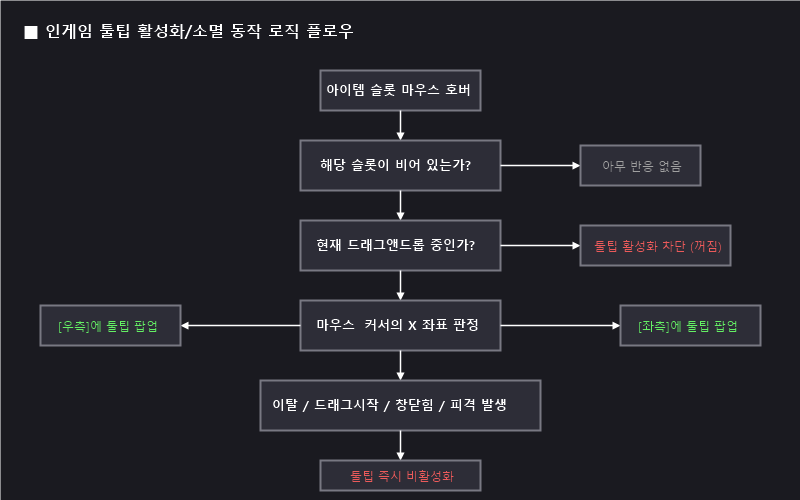
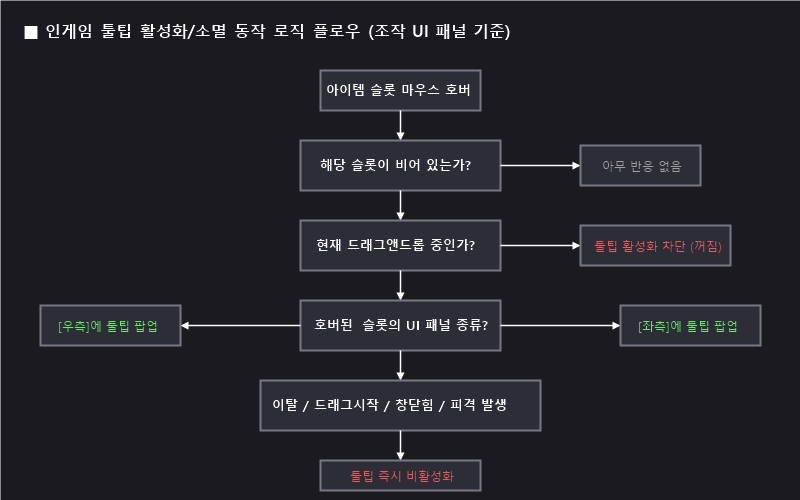
정보 툴팁 기획 업데이트

Changed region(s): [[0.125, 0.03, 0.625, 0.09], [0.375, 0.63, 0.625, 0.66]]

diff --git a/LucidDiver_Document/02_개발_전달용/P0.5_기획_명세서/P0.5_UI_아이템 상세 정보 툴팁 기획_v1.0.0.md b/LucidDiver_Document/02_개발_전달용/P0.5_기획_명세서/P0.5_UI_아이템 상세 정보 툴팁 기획_v1.0.0.md
@@ -30,17 +30,15 @@
    - 폰트 스타일: Bold
    - 폰트 크기: 16
    - 텍스트 컬러: 아이템 등급별 고유 색상 적용 (2.2절 참조).
-3. **아이템 등급 뱃지 (`Badge_ItemGrade`)**:
-   - 우측 상단 배치. 등급 텍스트와 등급별 뱃지 배경 이미지의 조합으로 구성.
-4. **효과 설명 (`Text_ItemEffect`)**:
+3. **효과 설명 (`Text_ItemEffect`)**:
    - 스탯 상승치 및 특수 능력을 가독성 높은 폰트(예: KoPubWorld돋움)로 기술.
    - 예: `장착 시 HP 자연 회복량이 초당 +2.0 증가합니다.` (긍정 효과는 녹색 계열 `#80FF80`로 수치 강조).
-5. **플레이버 텍스트 (`Text_FlavorText`)**:
+4. **플레이버 텍스트 (`Text_FlavorText`)**:
    - 아이템의 설정과 스토리를 보여주는 텍스트.
    - 폰트 스타일: Italic
    - 폰트 크기: 12
    - 텍스트 컬러: `#9C9C9C` (중간 회색)
-6. **상점 가치 및 중첩 정보 (`Text_ItemMetadata`)**:
+5. **상점 가치 및 중첩 정보 (`Text_ItemMetadata`)**:
    - 상점 판매 시 획득 가능한 골드와 최대 중첩 한도를 표시.
    - 예: `상점 판매 가치: 500 G` / `최대 중첩: 1개`
 
@@ -115,13 +113,14 @@
 ---
 
 ## 3.2 툴팁의 동적 겹침 방지 (스마트 배치)
-화면 크기 대비 UI 창이 크게 설계되어 있으므로 마우스 포인터 기준 툴팁 배치 방향을 지능적으로 제어한다.
+화면 크기 대비 UI 패널들이 차지하는 면적이 넓으므로, 호버링이 발생한 슬롯이 소속된 **UI 패널의 종류(Type)**에 따라 툴팁의 기준 방향과 오프셋을 사전에 약속된 프리셋(Preset)으로 지정한다.
 
-- **마우스 커서의 X 좌표 < Screen.width * 0.5 (화면 좌측 인벤토리 영역)**:
-  - 툴팁은 마우스 커서 기준 **우측**에 뜬다 (피벗: 우측 상단 또는 우측 하단).
-- **마우스 커서의 X 좌표 >= Screen.width * 0.5 (화면 우측 상자 영역)**:
-  - 툴팁은 마우스 커서 기준 **좌측**에 뜬다 (피벗: 좌측 상단 또는 좌측 하단).
-  - **[보완 규칙]**: 상자 내부 조작 시의 편의성을 위해, 툴팁이 상자 패널의 시작 영역(X 좌표) 내부로 들어오지 않도록 오프셋을 크게 준다. 즉, 상자 안의 10개 슬롯을 전혀 가리지 않도록 툴팁의 X 좌표를 상자 패널 경계선 바깥(좌측)으로 강제 밀어낸다. 이 과정에서 좌측 인벤토리 창의 일부분이 툴팁에 가려지는 것은 허용한다.
+- **인벤토리 UI (`InventoryPanel`)의 슬롯을 조작할 때**:
+  - 툴팁은 마우스 커서 기준 항상 **우측(Right)**에 팝업된다 (우측 피벗 정렬).
+  - 이를 통해 인벤토리 내의 다른 슬롯들이 가려지는 현상을 최소화한다.
+- **아이템 상자 UI (`LootBoxPanel` / `ItemBoxPanel`)의 슬롯을 조작할 때**:
+  - 툴팁은 마우스 커서 기준 항상 **좌측(Left)**에 팝업된다 (좌측 피벗 정렬).
+  - **[상자 슬롯 가림 방지 규칙]**: 상자 내부에서 파밍 대상을 확인하거나 더블클릭할 때 상자 내 다른 슬롯이 가려지는 것을 원천 방지하기 위해, 툴팁의 X 좌표는 상자 패널 영역(X < 상자 경계선) 바깥인 화면 중앙 공백 및 인벤토리 패널 우측 영역 위에 오도록 강제 오프셋 처리를 실행한다.
 - **여백 마진(Offset)**:
   - 마우스 포인터 정위치와 툴팁 모서리 사이에 가로 및 세로 간격을 두어 마우스가 툴팁 자체를 가리지 않도록 위치를 피팅한다.
 
